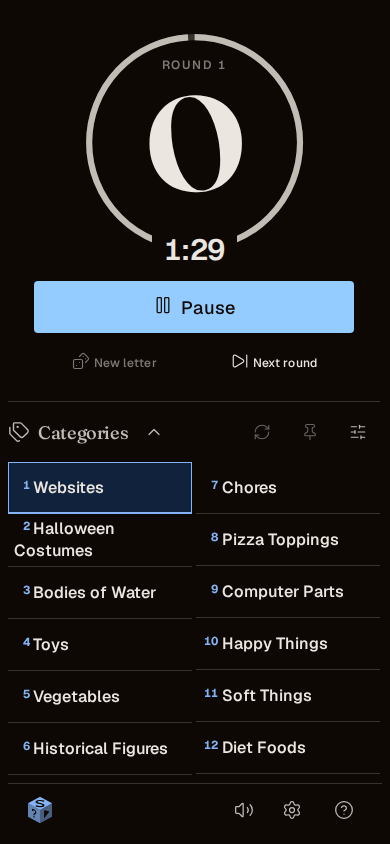
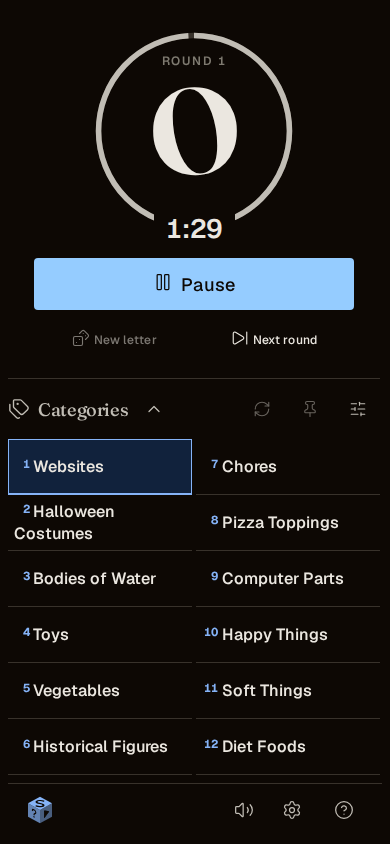
fix: keep phone letter size stable across category draws

diff --git a/src/styles/playmat.css b/src/styles/playmat.css
@@ -519,7 +519,7 @@
     .category-checklist__chip {
       display: block;
       align-content: center;
-      min-height: 3.25rem;
+      min-height: 3.5rem;
       padding-inline: var(--space-1-5);
       font-size: var(--text-md);
     }
@@ -528,8 +528,7 @@
       margin-bottom: 0;
     }
 
-    /* A superscript figure, set like a footnote marker: it gives up the gutter a
-       full-size numeral would need. It still keeps a fixed two-digit slot, so
+    /* A superscript numeral leaves room for the name. Keep a fixed slot so
        "1" and "12" push their names to the same edge and the names line up. */
     .category-checklist__mark {
       display: inline-block;

diff --git a/DESIGN.md b/DESIGN.md
@@ -99,7 +99,7 @@ components:
     textColor: "{colors.ink}"
     typography: "{typography.body}"
     rounded: "{rounded.sm}"
-    height: "3.25rem on phones, at least 2.75rem elsewhere"
+    height: "3.5rem on phones, at least 2.75rem elsewhere"
   category-chip-pinned:
     backgroundColor: "{colors.navy-wash}"
     textColor: "{colors.ink}"
@@ -320,5 +320,5 @@ shortcut does the same thing. The saved panel preference remembers the choice; r
 panel restores the category board without clearing the deck. There is no separate mode picker.
 Folding remains available during play and does not reset the letter or clock.
 
-Phone category rows reserve 3.25rem for two-line names and have no extra margin between rows,
+Phone category rows reserve 3.5rem for two-line names and have no extra margin between rows,
 so changing the draw does not trade letter size for wrapped labels.
